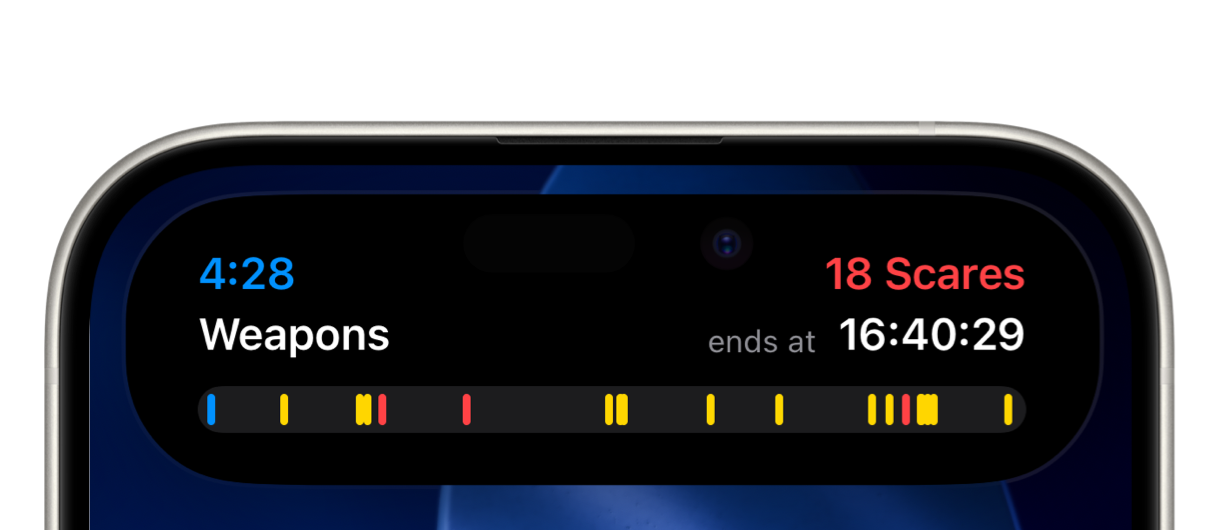
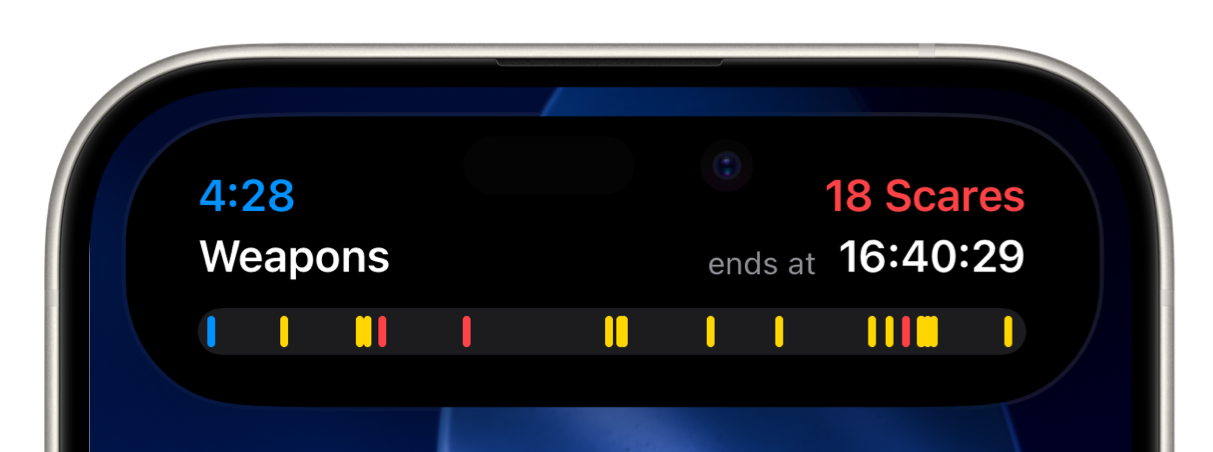
Update Live Activity artwork and spacing

diff --git a/index.html b/index.html
@@ -22,7 +22,7 @@
     <link rel="icon" type="image/png" sizes="16x16" href="/favicon-16.png?v=f683aeb">
     <link rel="apple-touch-icon" sizes="180x180" href="/favicon-180.png?v=f683aeb">
     <link rel="preload" as="image" type="image/png" href="/assets/hand-cursor.png?v=1">
-    <link rel="stylesheet" href="style.css?v=90">
+    <link rel="stylesheet" href="style.css?v=91">
     <script src="cursor.js?v=1" defer></script>
     <script src="search.js?v=11" defer></script>
 </head>
@@ -91,7 +91,7 @@
                 <p class="live-activity-description">Follow every scare as it happens, right from your Lock Screen. See what&rsquo;s coming, track the full timeline, and know exactly when it&rsquo;s safe to look again.</p>
             </div>
 
-            <img class="live-activity-image" src="assets/live-activity-jump-scares.png" alt="Binge Live Activity showing the jump scare timeline for Weapons" loading="lazy">
+            <img class="live-activity-image" src="assets/live-activity-jump-scares.png?v=2" alt="Binge Live Activity showing the jump scare timeline for Weapons" loading="lazy">
         </div>
     </section>
 

diff --git a/style.css b/style.css
@@ -248,7 +248,7 @@ a:hover {
     position: relative;
     z-index: 1;
     overflow: hidden;
-    padding: 84px calc(30px + env(safe-area-inset-right)) 0 calc(30px + env(safe-area-inset-left));
+    padding: 68px calc(30px + env(safe-area-inset-right)) 0 calc(30px + env(safe-area-inset-left));
     background: #fff4f1;
     color: #221615;
     text-align: center;
@@ -670,7 +670,7 @@ a:hover {
     }
 
     .live-activity-showcase {
-        padding-top: 52px;
+        padding-top: 44px;
     }
 
     .live-activity-image {
